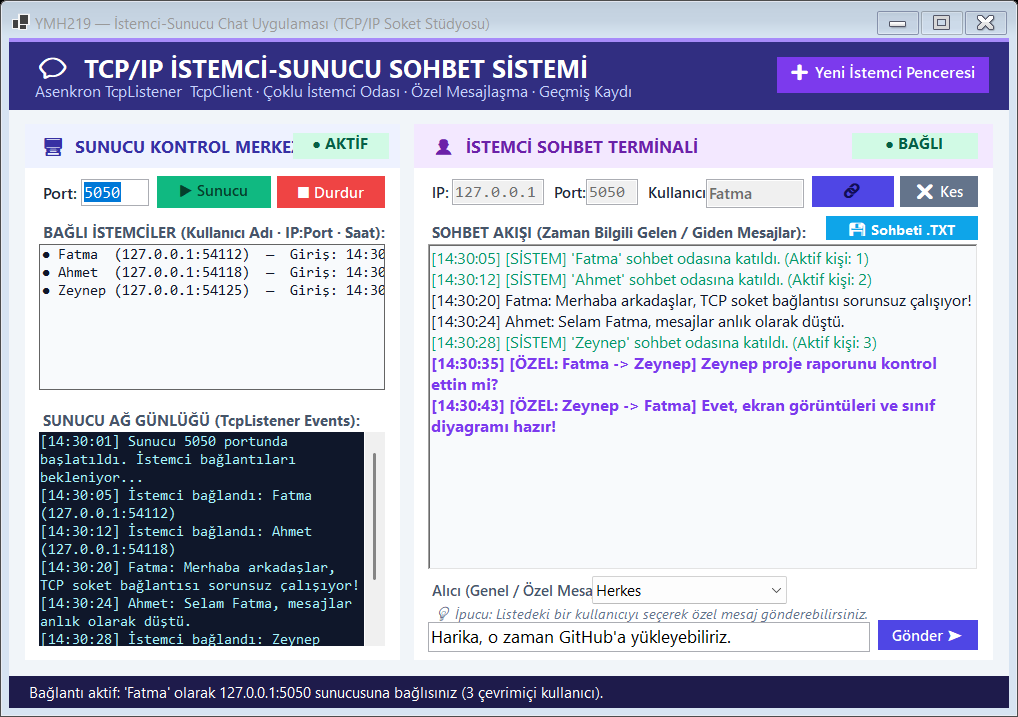
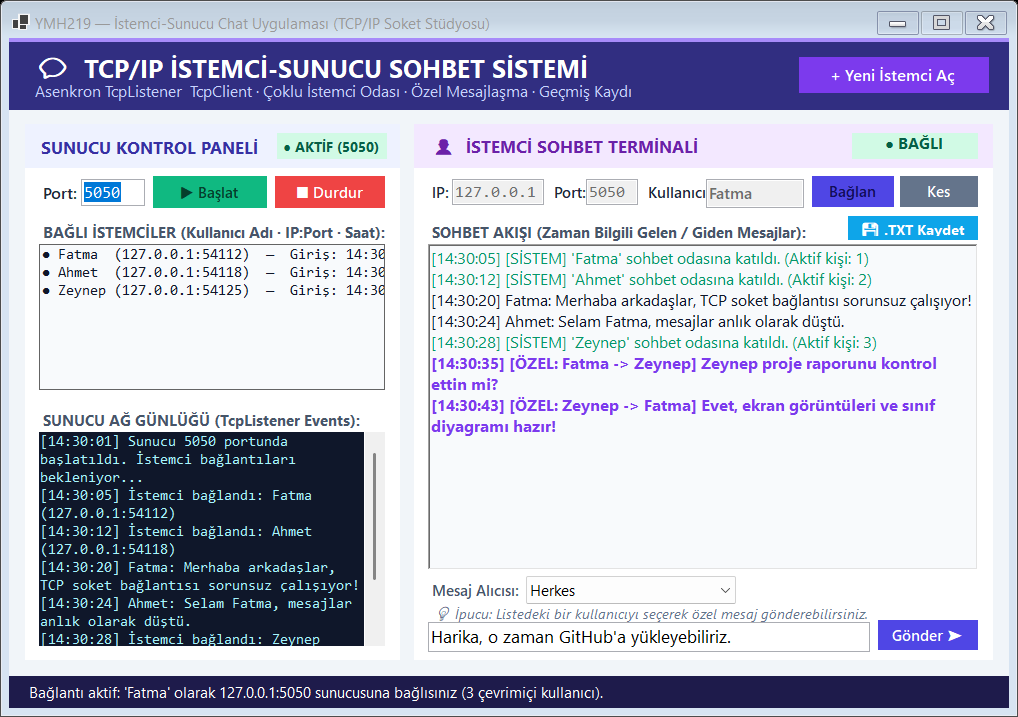
style(ui): refine header and button spacing and update screenshots

diff --git a/ChatApp/MainForm.cs b/ChatApp/MainForm.cs
@@ -84,13 +84,13 @@ public sealed class MainForm : Form
 
         Button btnNewClientWindow = new()
         {
-            Text = "➕ Yeni İstemci Penceresi Aç",
+            Text = "+ Yeni İstemci Aç",
             Font = new Font("Segoe UI Semibold", 9.2f, FontStyle.Bold),
             BackColor = Color.FromArgb(124, 58, 237),
             ForeColor = Color.White,
             FlatStyle = FlatStyle.Flat,
-            Location = new Point(768, 19),
-            Size = new Size(212, 36),
+            Location = new Point(790, 19),
+            Size = new Size(190, 36),
             Cursor = Cursors.Hand,
             TabStop = false
         };
@@ -122,10 +122,10 @@ public sealed class MainForm : Form
 
         Label lblServerTitle = new()
         {
-            Text = "🖥  SUNUCU KONTROL MERKEZİ",
-            Font = new Font("Segoe UI", 10.2f, FontStyle.Bold),
+            Text = "SUNUCU KONTROL PANELİ",
+            Font = new Font("Segoe UI", 9.8f, FontStyle.Bold),
             ForeColor = Color.FromArgb(55, 48, 163),
-            Location = new Point(12, 11),
+            Location = new Point(12, 12),
             AutoSize = true
         };
         serverHeader.Controls.Add(lblServerTitle);
@@ -133,12 +133,12 @@ public sealed class MainForm : Form
         _lblServerStatus = new Label
         {
             Text = "● KAPALI",
-            Font = new Font("Segoe UI", 8.5f, FontStyle.Bold),
+            Font = new Font("Segoe UI", 8.2f, FontStyle.Bold),
             ForeColor = Color.FromArgb(153, 27, 27),
             BackColor = Color.FromArgb(254, 226, 226),
             TextAlign = ContentAlignment.MiddleCenter,
-            Location = new Point(268, 9),
-            Size = new Size(96, 26)
+            Location = new Point(252, 9),
+            Size = new Size(110, 26)
         };
         serverHeader.Controls.Add(_lblServerStatus);
 
@@ -156,15 +156,15 @@ public sealed class MainForm : Form
             Text = "5050",
             Font = new Font("Consolas", 10f),
             Location = new Point(56, 55),
-            Size = new Size(68, 26)
+            Size = new Size(64, 26)
         };
         serverCard.Controls.Add(_txtServerPort);
 
-        _btnStartServer = CreateStyledButton("▶ Sunucu Başlat", 132, 52, 114, 32, Color.FromArgb(16, 185, 129), Color.White);
+        _btnStartServer = CreateStyledButton("▶ Başlat", 128, 52, 114, 32, Color.FromArgb(16, 185, 129), Color.White);
         _btnStartServer.Click += (_, _) => HandleStartServer();
         serverCard.Controls.Add(_btnStartServer);
 
-        _btnStopServer = CreateStyledButton("■ Durdur", 252, 52, 108, 32, Color.FromArgb(239, 68, 68), Color.White);
+        _btnStopServer = CreateStyledButton("■ Durdur", 250, 52, 110, 32, Color.FromArgb(239, 68, 68), Color.White);
         _btnStopServer.Enabled = false;
         _btnStopServer.Click += (_, _) => HandleStopServer();
         serverCard.Controls.Add(_btnStopServer);
@@ -306,11 +306,11 @@ public sealed class MainForm : Form
         };
         clientCard.Controls.Add(_txtUsername);
 
-        _btnConnect = CreateStyledButton("🔗 Bağlan", 398, 52, 82, 31, Color.FromArgb(79, 70, 229), Color.White);
+        _btnConnect = CreateStyledButton("Bağlan", 398, 52, 82, 31, Color.FromArgb(79, 70, 229), Color.White);
         _btnConnect.Click += async (_, _) => await HandleConnectClientAsync();
         clientCard.Controls.Add(_btnConnect);
 
-        _btnDisconnect = CreateStyledButton("✖ Kes", 486, 52, 78, 31, Color.FromArgb(100, 116, 139), Color.White);
+        _btnDisconnect = CreateStyledButton("Kes", 486, 52, 78, 31, Color.FromArgb(100, 116, 139), Color.White);
         _btnDisconnect.Enabled = false;
         _btnDisconnect.Click += async (_, _) => await HandleDisconnectClientAsync();
         clientCard.Controls.Add(_btnDisconnect);
@@ -326,7 +326,7 @@ public sealed class MainForm : Form
         };
         clientCard.Controls.Add(lblMessagesHeader);
 
-        _btnSaveHistory = CreateStyledButton("💾 Sohbeti .TXT Kaydet", 412, 92, 152, 24, Color.FromArgb(14, 165, 233), Color.White);
+        _btnSaveHistory = CreateStyledButton("💾 .TXT Kaydet", 434, 92, 130, 24, Color.FromArgb(14, 165, 233), Color.White);
         _btnSaveHistory.Font = new Font("Segoe UI", 8.2f, FontStyle.Bold);
         _btnSaveHistory.Click += (_, _) => HandleSaveHistory();
         clientCard.Controls.Add(_btnSaveHistory);
@@ -346,7 +346,7 @@ public sealed class MainForm : Form
         // Hedef Seçimi (Genel Oda veya Özel Mesaj) ve Mesaj Gönderim Alanı
         Label lblTarget = new()
         {
-            Text = "Alıcı (Genel / Özel Mesaj):",
+            Text = "Mesaj Alıcısı:",
             Font = new Font("Segoe UI Semibold", 8.8f, FontStyle.Bold),
             ForeColor = Color.FromArgb(71, 85, 105),
             Location = new Point(14, 456),
@@ -358,8 +358,8 @@ public sealed class MainForm : Form
         {
             DropDownStyle = ComboBoxStyle.DropDownList,
             Font = new Font("Segoe UI", 9f),
-            Location = new Point(178, 452),
-            Size = new Size(195, 26)
+            Location = new Point(112, 452),
+            Size = new Size(210, 26)
         };
         _cmbRecipient.Items.Add("Herkes");
         _cmbRecipient.SelectedIndex = 0;
